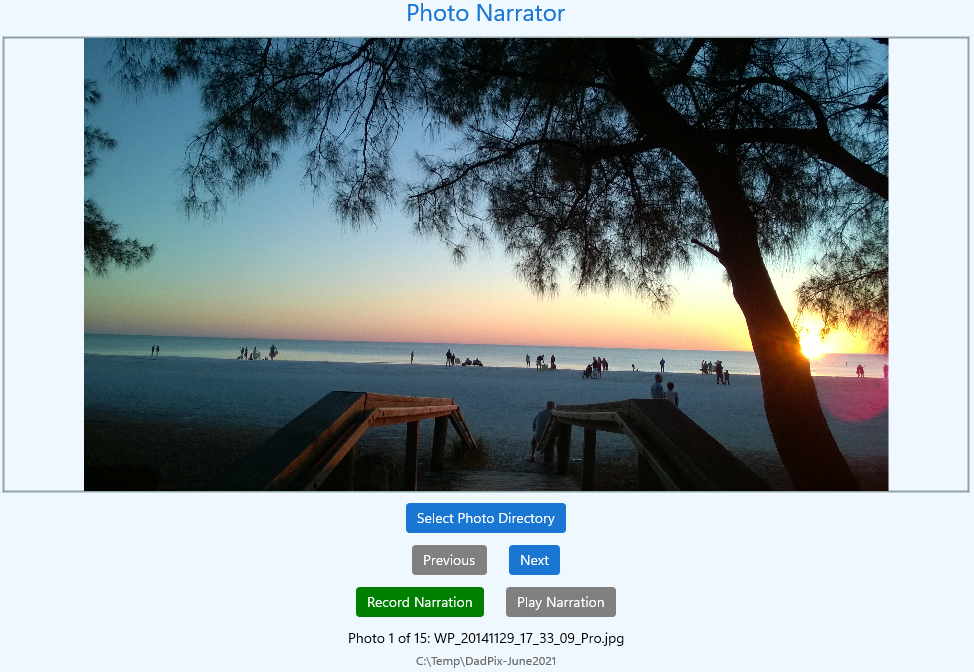
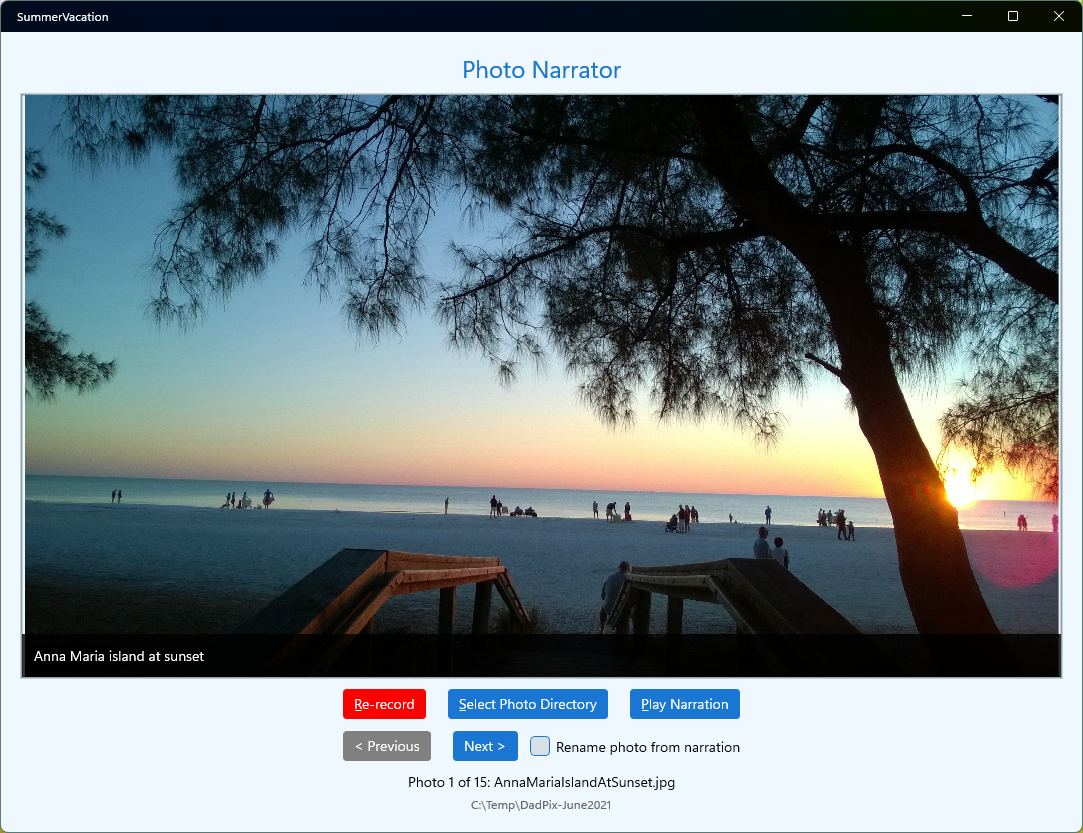
Store images; minor clean-up

diff --git a/SummerVacation/SummerVacation/Services/NoOpSpeechToText.cs b/SummerVacation/SummerVacation/Services/NoOpSpeechToText.cs
@@ -2,6 +2,7 @@ using CommunityToolkit.Maui.Media;
 
 namespace SummerVacation.Services;
 
+#pragma warning disable S108      // "Nested blocks of code should not be left empty" - events are no-op and intentionally left empty                                                                                                           
 /// <summary>
 /// No-op implementation of <see cref="ISpeechToText"/> used on platforms or devices
 /// where speech recognition is not available (e.g. Android emulators).
@@ -26,6 +27,7 @@ internal sealed class NoOpSpeechToText : ISpeechToText
 		add { }
 		remove { }
 	}
+#pragma warning restore S108
 
 	public SpeechToTextState CurrentState => SpeechToTextState.Stopped;
 

diff --git a/SummerVacation/SummerVacation/MainPage.xaml.cs b/SummerVacation/SummerVacation/MainPage.xaml.cs
@@ -34,6 +34,7 @@ namespace SummerVacation
 		public MainPage(PhotoLibrary photoLibrary, AudioNarrationService narrationService, ISpeechToTextService speechToTextService, IPhotoCommentService photoCommentService)
 		{
 			InitializeComponent();
+			_currentFileName = string.Empty;
 			_photoLibrary = photoLibrary;
 			_narrationService = narrationService;
 			_speechToTextService = speechToTextService;
